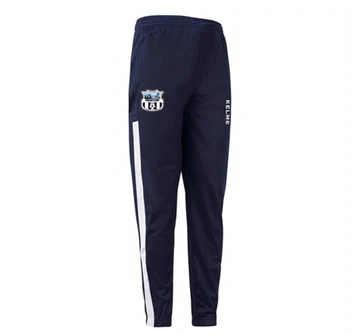
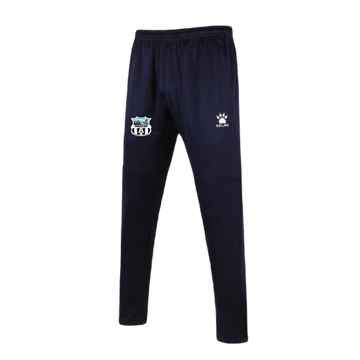
add new items to shop, update prices, images and make some small css changes to layout

Changed region(s): [[0.3056, 0.0299, 0.7028, 0.9851]]

diff --git a/ssj/src/Components/Pages/Shop/Shop.js b/ssj/src/Components/Pages/Shop/Shop.js
@@ -4,24 +4,18 @@ import "../../../assets/css/Shop.css";
 import ShopItem from "./ShopItem/ShopItem";
 import { useSpring, animated } from "react-spring";
 // Imported Images
-import parkaJacket from "../../../assets/IMG/ShardlowParka.webp";
-import rainJacket from "../../../assets/IMG/ShardlowRain.webp";
-import linceZip from "../../../assets/IMG/ShardlowLinceZip_183aea43-8cef-4c27-a316-d30369755bd5.webp";
-import trainingTee from "../../../assets/IMG/ShardlowLinceTee.webp";
-import trainingTop from "../../../assets/IMG/ShardlowGlobal.webp";
-import polo from "../../../assets/IMG/ShardlowNavyPolo.webp";
-import pants from "../../../assets/IMG/ShardlowPant.webp";
-import homeKit from "../../../assets/IMG/ShardlowHome.webp";
-import awayKit from "../../../assets/IMG/ShardlowAway.webp";
-import shorts from "../../../assets/IMG/ShardlowShort.webp";
-import jomaTee from "../../../assets/IMG/ssj_joma_tee.jfif";
-import jomaHalfZip from "../../../assets/IMG/ssj_joma_half_zip.jfif";
-import jomaHoodie from "../../../assets/IMG/ssj_joma_hoodie.jfif";
-import jomaTracksuit from "../../../assets/IMG/ssj_joma_tracksuit.jfif";
-import jomaPolo from "../../../assets/IMG/ssj_joma_polo.jfif";
-import jomaBottoms from "../../../assets/IMG/ssj_joma_bottoms.jfif";
-import jomaRainJacket from "../../../assets/IMG/ssj_joma_rain_jacket.jfif";
-import jomaSoftShell from "../../../assets/IMG/ssj_joma_softshell_jacket.jfif";
+import parkaJacket from "../../../assets/IMG/ShardlowParkanew.webp";
+import rainJacket from "../../../assets/IMG/ShardlowRainnew.webp";
+import linceZip from "../../../assets/IMG/ShardlowLinceZip_183aea43-8cef-4c27-a316-d30369755bd5new.webp";
+import trainingTee from "../../../assets/IMG/ssj_traint_tee_2.webp";
+import trainingTop from "../../../assets/IMG/ShardlowGlobalnew.webp";
+import polo from "../../../assets/IMG/ShardlowNavyPolonew.webp";
+import pants from "../../../assets/IMG/Shardlowpant.webp";
+import homeKit from "../../../assets/IMG/ssjhomekit.webp";
+import awayKit from "../../../assets/IMG/ssjawaykit.webp";
+import shorts from "../../../assets/IMG/new.webp";
+import newTrainTop from "../../../assets/IMG/ShardlownavyhalfzipNew.webp";
+import warriorTrainTop from "../../../assets/IMG/ShardlowwarriorhalfzipNew.webp";
 
 function Shop() {
   const shopItems = [
@@ -29,70 +23,84 @@ function Shop() {
       id: 1,
       image: parkaJacket,
       description: "Shardlow Parka Jacket",
-      price: "From £39.99",
+      price: "£57.99",
       link: "https://kelmeteamwear.co.uk/products/shardlow-parka-jacket",
     },
     {
       id: 2,
       image: rainJacket,
       description: "Shardlow Rain Jacket",
-      price: "From £23.99",
+      price: "£26.49",
       link: "https://kelmeteamwear.co.uk/products/shardlow-rain-jacket",
     },
     {
       id: 3,
-      image: linceZip,
-      description: "Shardlow Lince Jacket",
-      price: "From £23.99",
-      link: "https://kelmeteamwear.co.uk/products/shardlow-lince-jacket?_pos=1&_sid=8e5076216&_ss=r",
+      image: newTrainTop,
+      description: "Shardlow New 1/4 Zip Training Top",
+      price: "£32.00",
+      link: "https://kelmeteamwear.co.uk/products/shardlow-new-navy-1-4-zip-training-top",
     },
     {
       id: 4,
-      image: trainingTee,
-      description: "Shardlow Training Tee",
-      price: "From £14.99",
-      link: "https://kelmeteamwear.co.uk/products/shardlow-training-tee",
+      image: warriorTrainTop,
+      description: "Shardlow Warrior 1/4 Zip Top",
+      price: "£66.00",
+      link: "https://kelmeteamwear.co.uk/products/shardlow-new-navy-1-4-zip-training-top-copy",
     },
     {
       id: 5,
-      image: trainingTop,
-      description: "Shardlow 1/4 Zip Training Top",
-      price: "From £24.00",
-      link: "https://kelmeteamwear.co.uk/products/shardlow-1-4-zip-training-top",
+      image: linceZip,
+      description: "Shardlow Lince Jacket",
+      price: "£26.49",
+      link: "https://kelmeteamwear.co.uk/products/shardlow-lince-jacket?_pos=1&_sid=8e5076216&_ss=r",
     },
     {
       id: 6,
-      image: polo,
-      description: "Shardlow Polo(3 Colour Options)",
-      price: "From £13.99",
-      link: "https://kelmeteamwear.co.uk/products/shardlow-polo-navy",
+      image: trainingTee,
+      description: "Shardlow Training Tee",
+      price: "£25.00",
+      link: "https://kelmeteamwear.co.uk/products/shardlow-warrior-training-t-shirt",
     },
     {
       id: 7,
-      image: pants,
-      description: "Shardlow Training Pant",
-      price: "From £14.49",
-      link: "https://kelmeteamwear.co.uk/products/shardlow-training-pant",
+      image: trainingTop,
+      description: "Shardlow 1/4 Zip Training Top",
+      price: "£26.00",
+      link: "https://kelmeteamwear.co.uk/products/shardlow-1-4-zip-training-top",
     },
     {
       id: 8,
-      image: homeKit,
-      description: "Shardlow Home Kit",
-      price: "From £24.99",
-      link: "https://kelmeteamwear.co.uk/products/shardlow-home-set",
+      image: polo,
+      description: "Shardlow Polo(3 Colour Options)",
+      price: "£16.49",
+      link: "https://kelmeteamwear.co.uk/products/shardlow-polo-navy",
     },
     {
       id: 9,
-      image: awayKit,
-      description: "Shardlow Away Kit",
-      price: "From £24.99",
-      link: "https://kelmeteamwear.co.uk/products/copy-of-shardlow-away-set",
+      image: pants,
+      description: "Shardlow Training Pant",
+      price: "£19.99",
+      link: "https://kelmeteamwear.co.uk/products/shardlow-training-pant",
     },
     {
       id: 10,
+      image: homeKit,
+      description: "Shardlow Home Kit",
+      price: "£24.99",
+      link: "https://kelmeteamwear.co.uk/products/shardlow-home-set",
+    },
+    {
+      id: 11,
+      image: awayKit,
+      description: "Shardlow Away Kit",
+      price: "£24.99",
+      link: "https://kelmeteamwear.co.uk/products/copy-of-shardlow-away-set",
+    },
+    {
+      id: 12,
       image: shorts,
       description: "Shardlow Training Short",
-      price: "From £6.99",
+      price: "£6.49",
       link: "https://kelmeteamwear.co.uk/products/shardlow-training-short",
     },
     // {
@@ -179,7 +187,7 @@ function Shop() {
     <div className="shop">
       <animated.h2 style={{ ...fadeIn }}>Welcome to our shop</animated.h2>
       <animated.p className="shopPageInfo" style={{ ...p }}>
-        *Click item image to take you to external site (Kelme or Euro Soccer)
+        *Click item image to take you to external site Kelme
       </animated.p>
       <animated.div className="shopItems" style={{ ...items }}>
         {shopItems.map((item) => (

diff --git a/ssj/src/assets/css/ShopItem.css b/ssj/src/assets/css/ShopItem.css
@@ -1,9 +1,21 @@
 /* CSS file for shop item */
+.shopItem {
+  text-align: center;
+  margin-bottom: 5px;
 
+  .itemPrice {
+    span {
+      font-weight: bold;
+      color: var(--dark-blue);
+    }
+  }
+}
 .shopItem img {
   width: 250px;
+  height: 250px;
+  margin-bottom: 5px;
   box-shadow: 2px 4px 5px rgba(0, 0, 0, 0.3);
-  opacity: 0.7;
+  opacity: 0.8;
 }
 
 .shopItem img:hover {
@@ -11,7 +23,15 @@
 }
 
 @media (max-width: 1000px) {
+  .shopItem {
+    .itemPrice {
+      padding-bottom: 5px;
+      border-bottom: 1px solid var(--light-blue);
+    }
+  }
+
   .shopItem img {
     opacity: 1;
+    box-shadow: none;
   }
 }

diff --git a/ssj/src/Components/Pages/Shop/ShopItem/ShopItem.js b/ssj/src/Components/Pages/Shop/ShopItem/ShopItem.js
@@ -9,7 +9,9 @@ function ShopItem(props) {
         <img src={props.itemIMG} alt={props.itemIMGAlt}></img>
       </a>
       <p className="itemDesc">{props.itemDesc}</p>
-      <p className="itemPrice">{props.itemPrice}</p>
+      <p className="itemPrice">
+        From <span>{props.itemPrice}</span>
+      </p>
     </div>
   );
 }

diff --git a/ssj/src/__tests__/Shop.test.js b/ssj/src/__tests__/Shop.test.js
@@ -18,5 +18,5 @@ test("all items load", () => {
 
   const allItems = screen.getAllByRole("link");
 
-  expect(allItems).toHaveLength(18);
+  expect(allItems).toHaveLength(12);
 });
